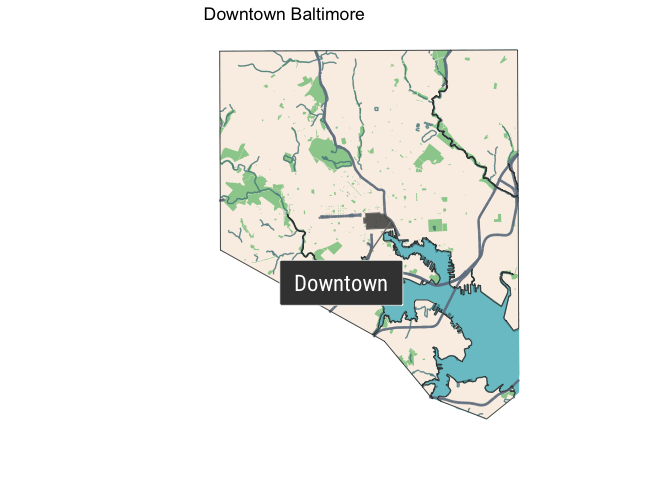
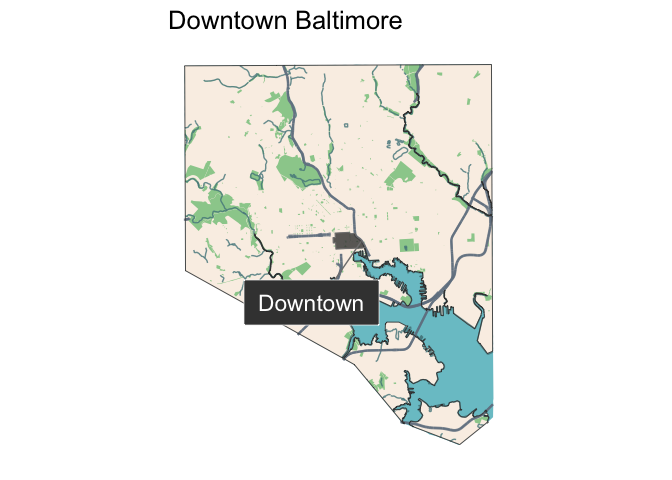
Update README

Changed region(s): [[0.25, 0.0938, 0.7812, 0.9375], [0.25, 0.0, 0.5938, 0.0625]]

diff --git a/README.md b/README.md
@@ -15,14 +15,14 @@ You can install this development version from
 
 ``` r
 # install.packages("devtools")
-devtools::install_github("elipousson/mapbaltimore")
+remotes::install_github("elipousson/mapbaltimore")
 ```
 
 ## Examples
 
 The mapbaltimore package includes utility functions to a neighborhood or
-other area type and mapping functions to create common styles of
-planning maps such as a context map for downtown Baltimore.
+other area type and mapping functions to create common planning maps
+such as this context map for downtown Baltimore.
 
 ``` r
 library(sf)
@@ -36,52 +36,36 @@ library(mapbaltimore)
 downtown <- get_area(type = "neighborhood",
                      area_name = "Downtown")
 
-map_area_in_city(area = downtown,
-                 map_title = "Downtown Baltimore")
+map_area_in_city(area = downtown) +
+  ggplot2::labs(title = "Downtown Baltimore")
 ```
 
 ![](README_files/figure-gfm/downtown-1.png)<!-- -->
 
-``` r
-map_area_streetnames(area = downtown,
-                     label_location = "edge")
-```
-
-![](README_files/figure-gfm/downtown-2.png)<!-- -->
-
-The mapbaltimore package also includes functions to get data from the
-Open Baltimore data portal and commonly datasets including the street
-center line data used in this map of building permits in the Oliver
-neighborhood in East Baltimore.
+Or this map of parks in and around downtown Baltimore.
 
 ``` r
-neighborhood <- get_area(type = "neighborhood",
-                         area_name = "Oliver")
-
-permits <- get_permits(area = neighborhood,
-                       start_date = "2020-06-01",
-                       end_date = "2020-12-01",
-                       geometry = TRUE)
-
-neighborhood_streets <- sf::st_crop(streets, neighborhood)
-
-library(ggplot2)
-
-ggplot() +
-  geom_sf(data = neighborhood_streets,
-          color = "darkgray") +
-  geom_sf(data = permits,
-          aes(color = permit_type)) +
-    geom_sf(data = neighborhood,
-          fill = NA,
-          color = "black",
-          linetype = "dashed") +
-  theme_minimal() +
-  labs(
-    title = paste0("Permits in ", neighborhood$name, " since June 1, 2020"),
-    caption = "Data courtesy Open Baltimore",
-    color = "Permit type"
-  )
+map_area_parks(area = downtown) +
+  ggplot2::labs(title = "Parks in Downtown Baltimore")
 ```
 
-![](README_files/figure-gfm/neighborhood-1.png)<!-- -->
+![](README_files/figure-gfm/parks-1.png)<!-- -->
+
+Or this map highlighting different neighborhoods around downtown
+Baltimore.
+
+``` r
+around_downtown <- get_nearby_areas(area = downtown,
+                                    type = "neighborhood")
+
+map_area_highlighted(area = around_downtown) +
+  ggplot2::labs(title = "Neighborhoods around Downtown Baltimore")
+```
+
+![](README_files/figure-gfm/areas_highlighted-1.png)<!-- -->
+
+The package includes several functions for accessing data on Open
+Baltimore. However, as of December 31, 2020, Baltimore City has shut
+down the Socrata-based Open Baltimore data portal and replaced it with a
+ArcGIS data catalog. Consequently, these functions are not currently
+working.
